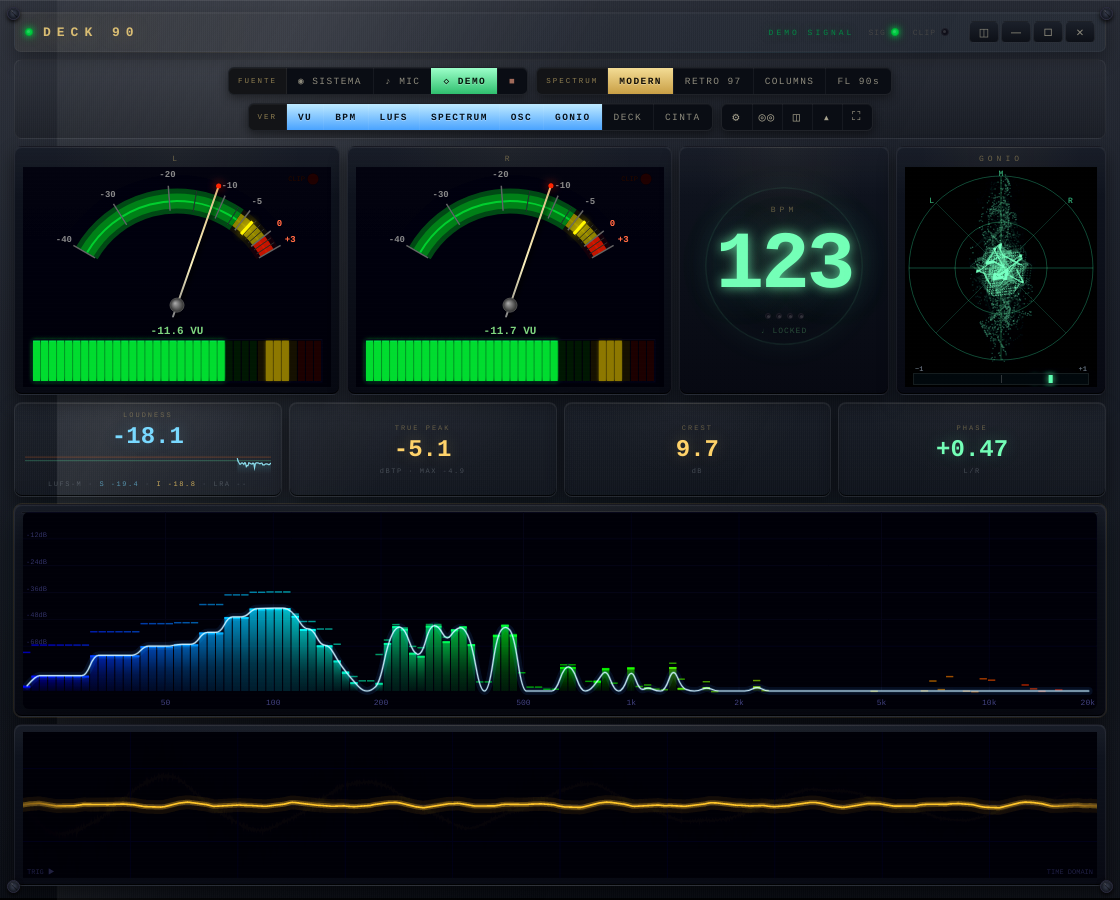
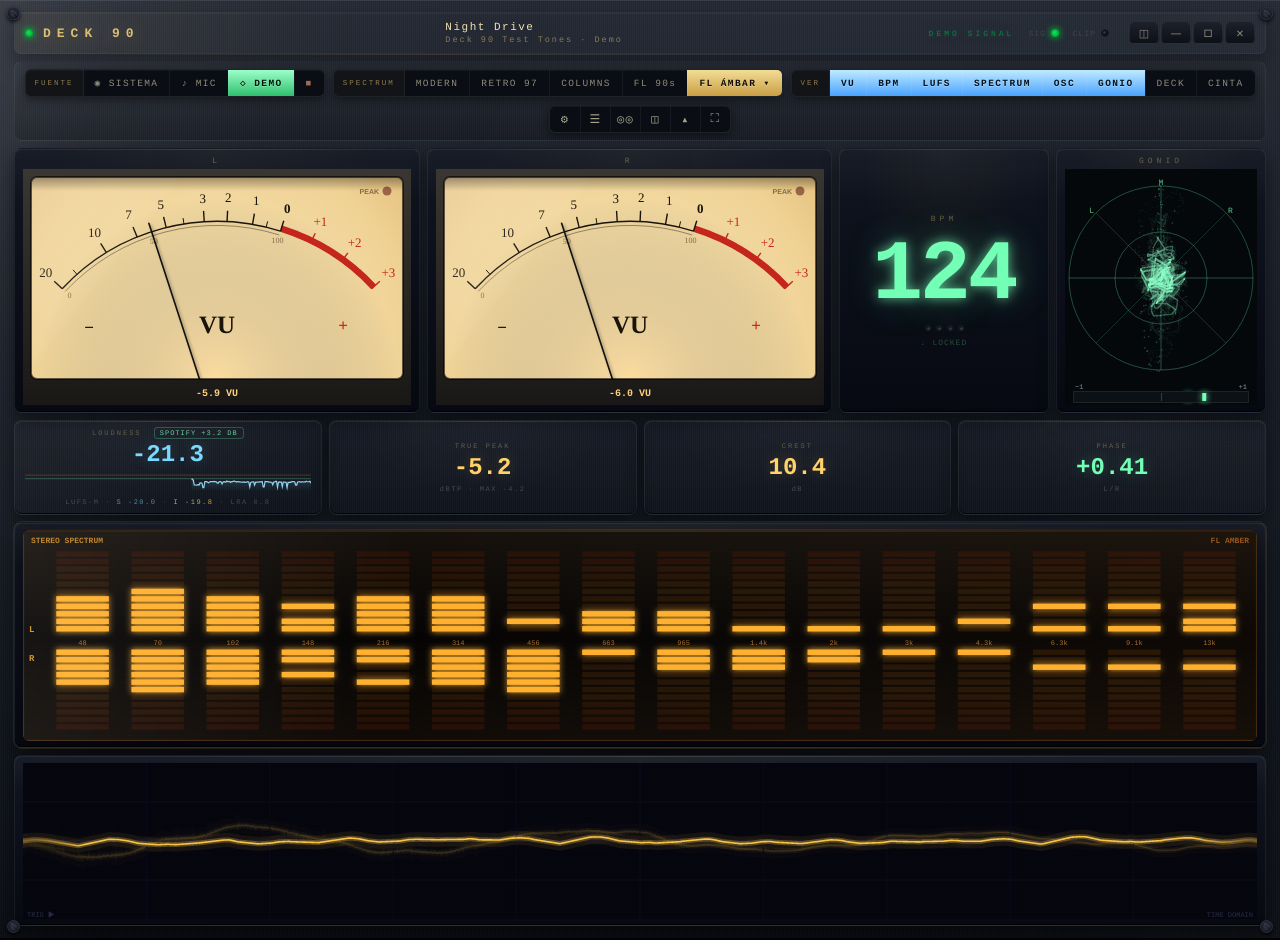
6.5.1: no start-screen flash when the program opens; new README screenshots
Claude-Session: https://claude.ai/code/session_01CSpiAfwMtvrKp6wf1rN1Pf

diff --git a/src/styles.css b/src/styles.css
@@ -793,3 +793,6 @@ body.mini #updBar{ display:none; }
 .skin-menu button span{ font-size:9px; color:rgba(160,170,180,.65); letter-spacing:.3px; }
 .skin-menu button:hover{ background:rgba(217,189,115,.08); }
 .skin-menu button.on{ background:linear-gradient(180deg,rgba(243,220,149,.18),rgba(201,159,69,.12)); }
+
+/* the program skips the browser's start screen: hidden from the first paint (see js/boot.js) */
+.app-boot #splash{ display:none !important; }

diff --git a/src/js/boot.js b/src/js/boot.js
@@ -1,0 +1,4 @@
+'use strict';
+// Runs in <head>, before anything is drawn: the program (Electron) never shows the browser's start
+// screen, so it's hidden from the very first paint instead of flashing until the page has loaded.
+if (/Electron/.test(navigator.userAgent)) document.documentElement.classList.add('app-boot');

diff --git a/src/index.html b/src/index.html
@@ -8,6 +8,7 @@
 
 <title>DECK 90</title>
 <link rel="stylesheet" href="styles.css">
+<script src="js/boot.js"></script>
 </head>
 <body>
 

diff --git a/README.md b/README.md
@@ -2,14 +2,30 @@
 
 A desktop audio analyzer with a retro hi-fi look. It listens to whatever your computer is playing and shows it on VU meters, a spectrum analyzer, loudness meters, an oscilloscope and a pair of cassette decks whose tape actually turns. It also shows the track that's playing now, and pairs well with [Spotless](https://github.com/nix-codes/spotless).
 
-![Deck 90 — main view](docs/screenshots/main.png)
+![Deck 90 — CINTA 70s VU meters, the Spotify badge and the stereo FL ÁMBAR spectrum](docs/screenshots/main.png)
+
+**Six of the ten spectrum styles:** LED 80s, FL SHOWROOM, FL ÁMBAR (stereo), RTA 1/3 octave, LCD and the spectrogram.
+
+![Spectrum styles](docs/screenshots/spectrums.png)
+
+**VU faces CINTA 70s and AZUL**
+
+![VU faces](docs/screenshots/vu-faces.png)
+
+**Phone display:** everything, FL 90s and the spectrogram, live from the PC.
+
+![Phone display](docs/screenshots/phone.png)
+
+**Track history** with the Spotify change for each track, exported to Excel.
+
+![Track history](docs/screenshots/history.png)
 
 | | |
 |---|---|
 | ![Hi-Fi VUs, LED columns and a double deck](docs/screenshots/retro-decks.png) | ![90s bar display and a big reel-to-reel style cassette](docs/screenshots/fl-tape.png) |
 | ![Columns spectrum](docs/screenshots/columns.png) | ![Mini mode: a strip that stays on top](docs/screenshots/mini.png) |
 
-*Screenshots use the built-in DEMO signal.*
+*Screenshots use the built-in DEMO signal; track names are made up.*
 
 ## Features
 

diff --git a/CHANGELOG.md b/CHANGELOG.md
@@ -1,5 +1,13 @@
 # Changelog
 
+## 6.5.1
+
+### Fixed
+- The program no longer flashes the browser version's start screen for a moment when it opens.
+
+### Docs
+- New screenshots: the main view with the CINTA 70s VU and FL ÁMBAR, six spectrum styles, both new VU faces, the phone display and the track history.
+
 ## 6.5.0
 
 ### Added
